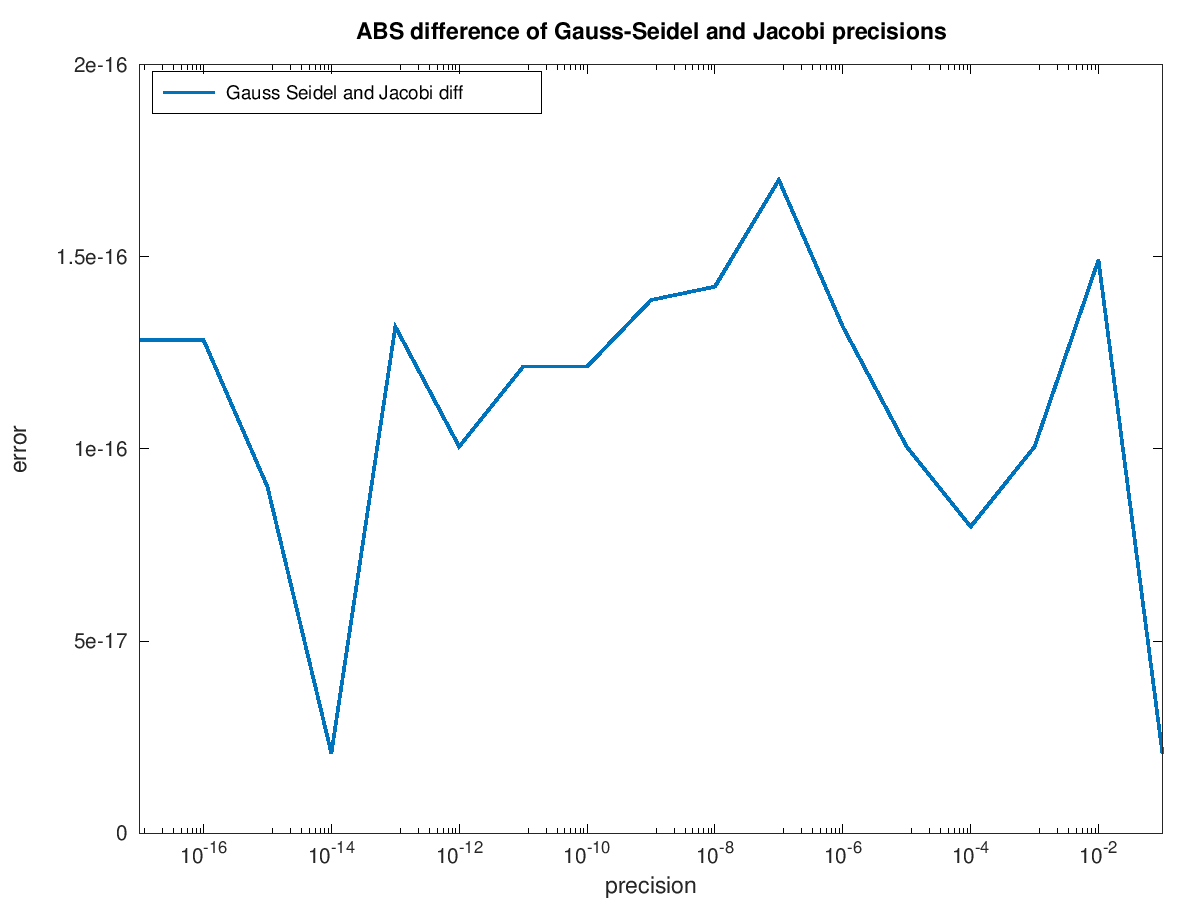
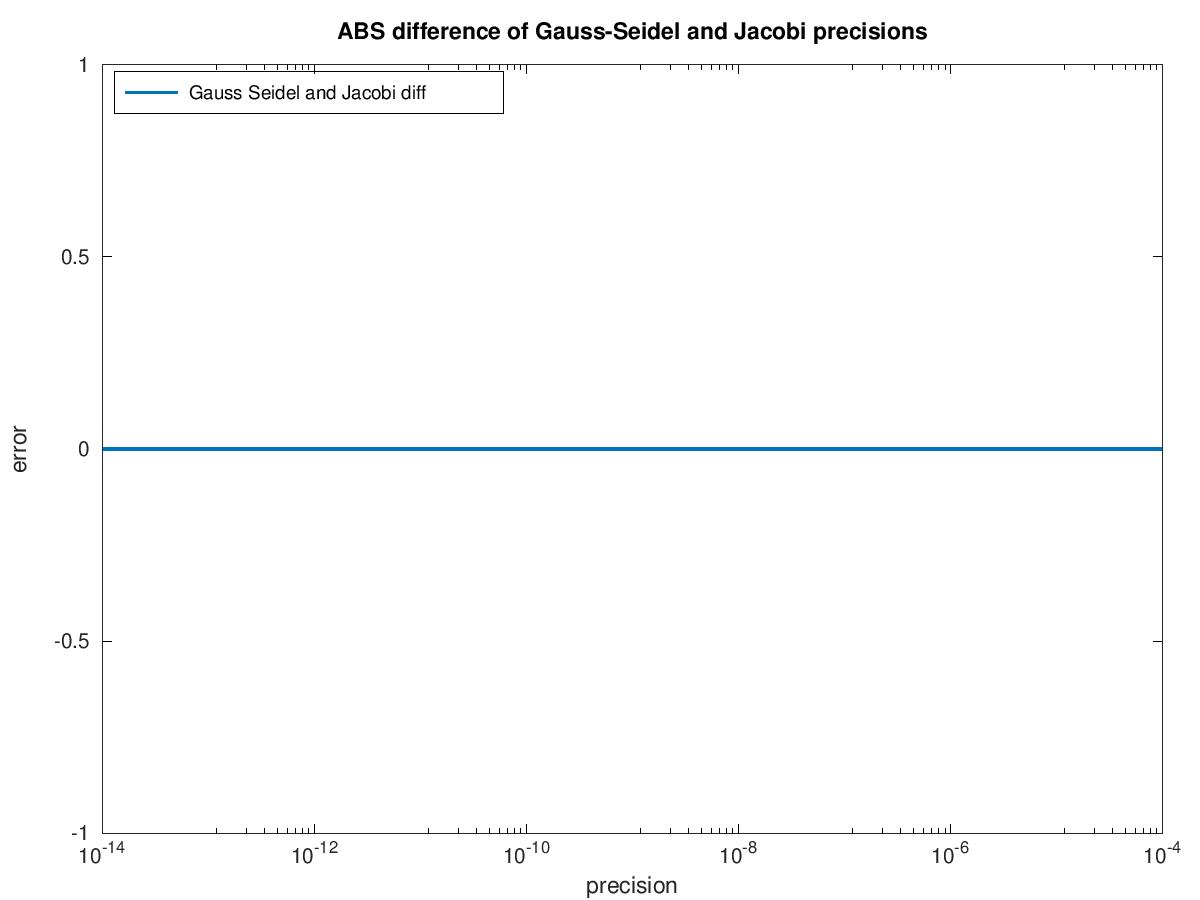
final finally full final plots extra master

diff --git a/03-population_protocols/src/scripts/00_plots_with_octave.m b/03-population_protocols/src/scripts/00_plots_with_octave.m
@@ -9,8 +9,8 @@ load ../../precisions.csv
 agent_count = errors(:,1);
 abs_results = [errors(:,2), errors(:,3), errors(:,4), errors(:,5), errors(:,6), errors(:,7)];
 bar(agent_count, abs_results);
-xlim([19.5 30.5]);
-ylim([0 0.02]);
+xlim([9.5 20.5]);
+ylim([0 0.0025]);
 ylabel ("error");
 xlabel ("agents count");
 title  ("Monte Carlo ABS errors all");
@@ -19,40 +19,40 @@ legend ("Gauss", "Gauss Improved", "Gauss-Seidel Approx", "Gauss-Seidel Iterativ
 print -dpng ../../report/plots/01_abs_all_methods_all_rows.png;
 
 
-### algorithms abs errors all rows
-agent_count = errors(:,1);
-plot(agent_count, errors(:,2), errors(:,3), "--", "linewidth", 5);
-ylabel ("error");
-xlabel ("agents count");
-title  ("Monte Carlo ABS errors Gauss & Gauss Optimized");
-legend ("Gauss", "Gauss Improved", "location","northwest");
+% ### algorithms abs errors all rows
+% agent_count = errors(:,1);
+% plot(agent_count, errors(:,2), errors(:,3), "--", "linewidth", 5);
+% ylabel ("error");
+% xlabel ("agents count");
+% title  ("Monte Carlo ABS errors Gauss & Gauss Optimized");
+% legend ("Gauss", "Gauss Improved", "location","northwest");
 
-print -dpng ../../report/plots/01_abs_all_methods_gauss.png;
+% print -dpng ../../report/plots/01_abs_all_methods_gauss.png;
 
-agent_count = errors(:,1);
-plot(agent_count, errors(:,4), errors(:,5), "linewidth", 5);
-ylabel ("error");
-xlabel ("agents count");
-title  ("Monte Carlo ABS errors Gauss-Seidel Approx & Gauss-Seidel Iterative");
-legend ("Gauss-Seidel Approx", "Gauss-Seidel Iterative", "location","northwest");
+% agent_count = errors(:,1);
+% plot(agent_count, errors(:,4), errors(:,5), "linewidth", 5);
+% ylabel ("error");
+% xlabel ("agents count");
+% title  ("Monte Carlo ABS errors Gauss-Seidel Approx & Gauss-Seidel Iterative");
+% legend ("Gauss-Seidel Approx", "Gauss-Seidel Iterative", "location","northwest");
 
-print -dpng ../../report/plots/01_abs_all_methods_gauss_seidel.png;
+% print -dpng ../../report/plots/01_abs_all_methods_gauss_seidel.png;
 
-agent_count = errors(:,1);
-plot(agent_count, errors(:,6), errors(:,7), "linewidth", 5);
-ylabel ("error");
-xlabel ("agents count");
-title  ("Monte Carlo ABS errors Jacobi Approx & Jacobi Iterative");
-legend ("Jacobi Approx", "Jacobi Iterative", "location","northwest");
+% agent_count = errors(:,1);
+% plot(agent_count, errors(:,6), errors(:,7), "linewidth", 5);
+% ylabel ("error");
+% xlabel ("agents count");
+% title  ("Monte Carlo ABS errors Jacobi Approx & Jacobi Iterative");
+% legend ("Jacobi Approx", "Jacobi Iterative", "location","northwest");
 
-print -dpng ../../report/plots/01_abs_all_methods_jacobi.png;
+% print -dpng ../../report/plots/01_abs_all_methods_jacobi.png;
 
 
 ### time execution based on agents
 agent_count = errors(:,1);
 time_results = [errors(:,8), errors(:,9), errors(:,10), errors(:,11), errors(:,12), errors(:,13)];
 plot(agent_count, time_results, "linewidth", 5);
-xlim([3 50]);
+xlim([3 20]);
 ylabel ("time");
 xlabel ("agents count")
 title ("Time execution for all methods")
@@ -63,7 +63,9 @@ print -dpng ../../report/plots/02_time_execution_all_methods.png;
 ### abs iterative jacobi, seidel
 iterations = iterative(1701:1800,2);
 abs_results = (iterative(1701:1800,3) - iterative(1701:1800,4));
-plot(iterations, abs_results, "linewidth", 5);
+plot(iterations, abs_results, "linewidth", 5, "k");
+xlim([200 1000]);
+ylim([-1 1]);
 ylabel ("error");
 xlabel ("iterations");
 title ("ABS difference of Gauss-Seidel and Jacobi iterative");
@@ -83,9 +85,11 @@ print -dpng ../../report/plots/04_time_iterative_methods_all_rows.png;
 
 
 ### abs precision jacobi, seidel
-epsi = precisions(847:863,2);
-abs_results = (precisions(847:863,3) - precisions(847:863,4));
+epsi = precisions(273:288,2);
+abs_results = (precisions(273:288,3) - precisions(273:288,4));
 semilogx(epsi, abs_results, "linewidth", 5);
+xlim([0.00000000000001 0.0001])
+ylim([-1 1])
 ylabel ("error");
 xlabel ("precision");
 title ("ABS difference of Gauss-Seidel and Jacobi precisions");
@@ -95,9 +99,10 @@ print -dpng ../../report/plots/05_abs_precision_methods_all_rows.png;
 
 
 ### time precision jacobi, seidel
-epsi = precisions(847:863,2);
-time_results = [precisions(847:863,5), precisions(847:863,6)];
+epsi = precisions(273:288,2);
+time_results = [precisions(273:288,5), precisions(273:288,6)];
 semilogx(epsi, time_results, "linewidth", 5);
+xlim([0.00000000000001 0.0001])
 ylabel ("time");
 xlabel ("precision");
 title ("Time execution precisions methods");
@@ -108,8 +113,8 @@ print -dpng ../../report/plots/06_time_precision_methods_all_rows.png;
  ###abs gauss and gauss optimized
  agent_count = errors(:,1);
  abs_results = (errors(:,2) - errors(:,3));
- plot(agent_count, abs_results, "linewidth", 5);
- xlim([10 50]);
+ plot(agent_count, abs_results, "linewidth", 5, "m");
+ xlim([3 20]);
  ylabel ("error");
  xlabel ("agents count");
  title  ("ABS Gauss and Gauss Optimized difference");
